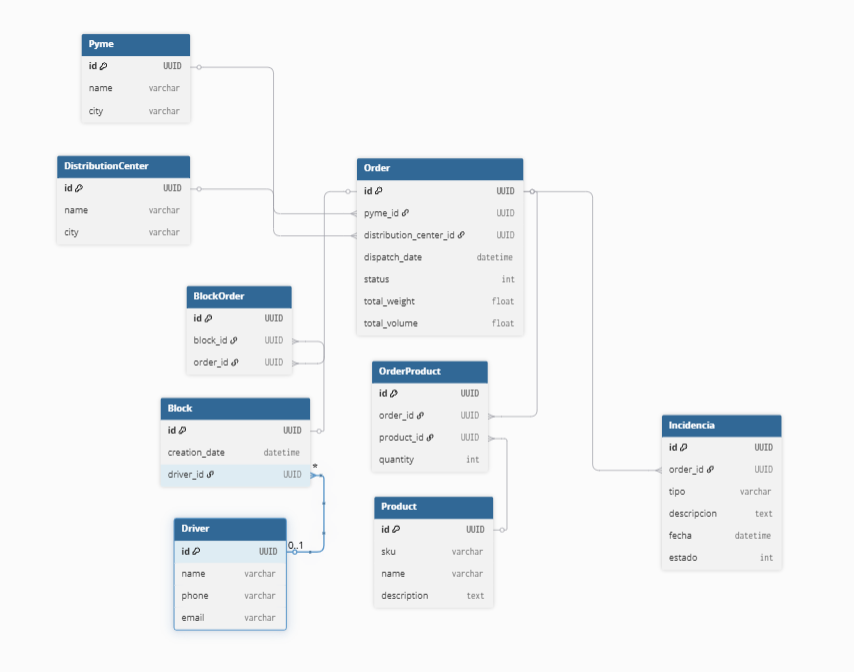
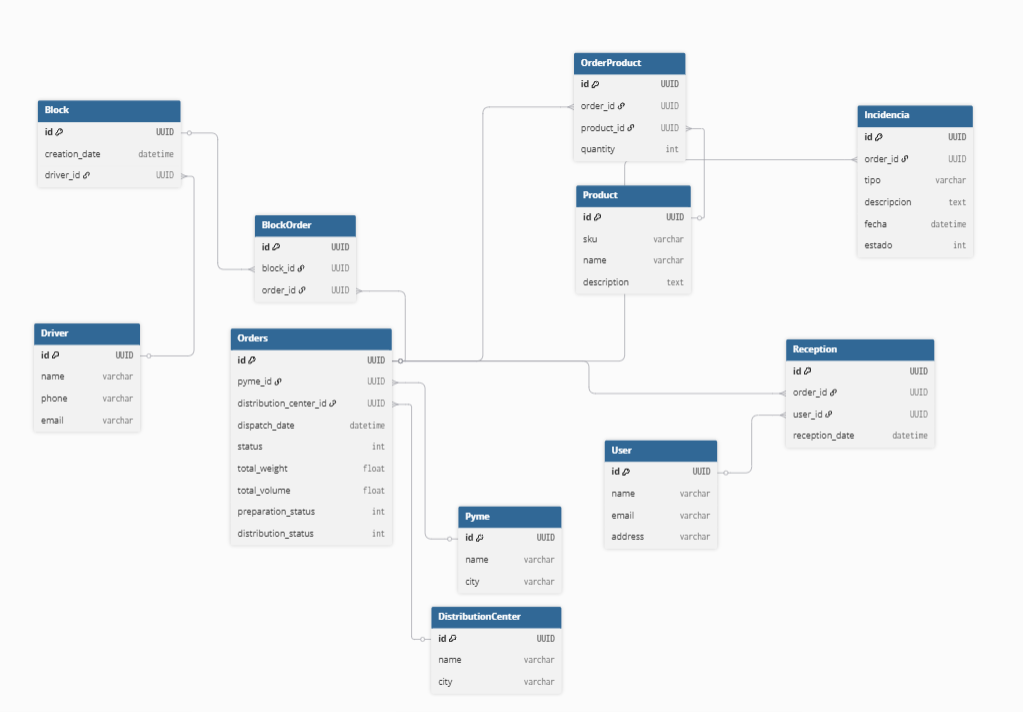
setting up new doc

diff --git a/DB.MD b/DB.MD
@@ -2,11 +2,12 @@
 ---
 
 # LogisTrack Database
+
 ---
 
 ## Esquema de Base de Datos
 
-![database_scheme](assets/db.png)
+![database\_scheme](assets/db.png)
 
 El microservicio utiliza MySQL. A continuación se muestra el **modelo relacional** de la base de datos:
 
@@ -24,21 +25,7 @@ El microservicio utiliza MySQL. A continuación se muestra el **modelo relaciona
 * `name` varchar
 * `city` varchar
 
-**Driver**
-
-* `id` UUID \[PK]
-* `name` varchar
-* `phone` varchar
-* `email` varchar
-
-**Product**
-
-* `id` UUID \[PK]
-* `sku` varchar
-* `name` varchar
-* `description` text
-
-**Order**
+**Orders**
 
 * `id` UUID \[PK]
 * `pyme_id` UUID \[FK → Pyme.id]
@@ -47,6 +34,22 @@ El microservicio utiliza MySQL. A continuación se muestra el **modelo relaciona
 * `status` int *(Enum OrderStatus)*
 * `total_weight` float
 * `total_volume` float
+* `preparation_status` int *(0=pendiente,1=completa)*
+* `distribution_status` int *(0=pendiente,1=entregada,2=rechazada)*
+
+**Product**
+
+* `id` UUID \[PK]
+* `sku` varchar
+* `name` varchar
+* `description` text
+
+**OrderProduct**
+
+* `id` UUID \[PK]
+* `order_id` UUID \[FK → Orders.id]
+* `product_id` UUID \[FK → Product.id]
+* `quantity` int
 
 **Block**
 
@@ -54,23 +57,37 @@ El microservicio utiliza MySQL. A continuación se muestra el **modelo relaciona
 * `creation_date` datetime
 * `driver_id` UUID \[FK → Driver.id]
 
-**OrderProduct**
-
-* `id` UUID \[PK]
-* `order_id` UUID \[FK → Order.id]
-* `product_id` UUID \[FK → Product.id]
-* `quantity` int
-
 **BlockOrder**
 
 * `id` UUID \[PK]
 * `block_id` UUID \[FK → Block.id]
-* `order_id` UUID \[FK → Order.id]
+* `order_id` UUID \[FK → Orders.id]
+
+**Driver**
+
+* `id` UUID \[PK]
+* `name` varchar
+* `phone` varchar
+* `email` varchar
+
+**User**
+
+* `id` UUID \[PK]
+* `name` varchar
+* `email` varchar
+* `address` varchar
+
+**Reception**
+
+* `id` UUID \[PK]
+* `order_id` UUID \[FK → Orders.id]
+* `user_id` UUID \[FK → User.id]  *(usuario que recibe)*
+* `reception_date` datetime
 
 **Incidencia**
 
 * `id` UUID \[PK]
-* `order_id` UUID \[FK → Order.id]
+* `order_id` UUID \[FK → Orders.id]
 * `tipo` varchar
 * `descripcion` text
 * `fecha` datetime
@@ -83,8 +100,9 @@ El microservicio utiliza MySQL. A continuación se muestra el **modelo relaciona
 * Un **Order** pertenece a una **Pyme** y a un **DistributionCenter**.
 * Un **Order** puede tener muchos **Products** a través de **OrderProduct**.
 * Un **Block** está asignado a un **Driver** y puede contener muchas órdenes (**BlockOrder**).
-* Cada **Incidencia** está asociada a una **Order**.
+* Cada **Reception** está asociada a un **Order** y a un **User** que la recibe.
+* Cada **Incidencia** está asociada a un **Order**.
 
-> Este diseño permite trazar el flujo completo de cada orden desde despacho hasta distribución final, incluyendo agrupación de órdenes en bloques, asignación a choferes y registro de incidencias.
+> Este diseño permite trazar el flujo completo de cada orden desde despacho hasta distribución final, incluyendo preparación, agrupación de órdenes en bloques, asignación a choferes, recepción por usuarios y registro de incidencias.
 
 ---
